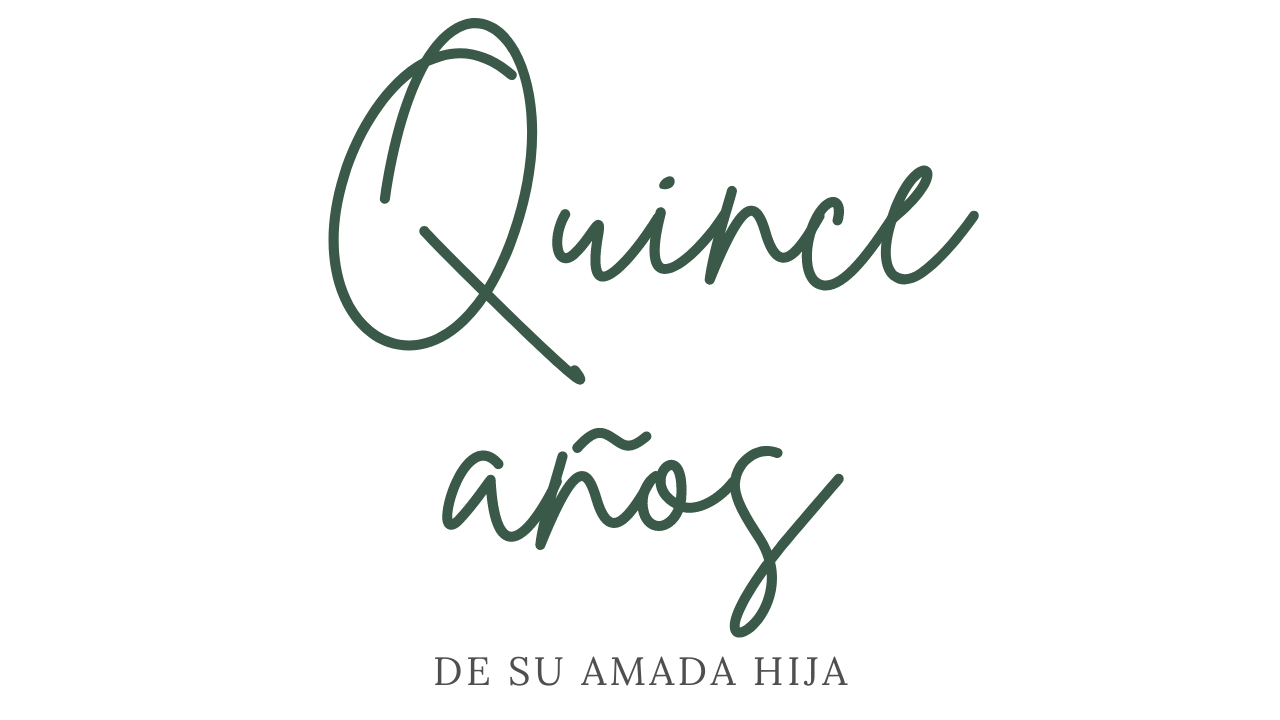
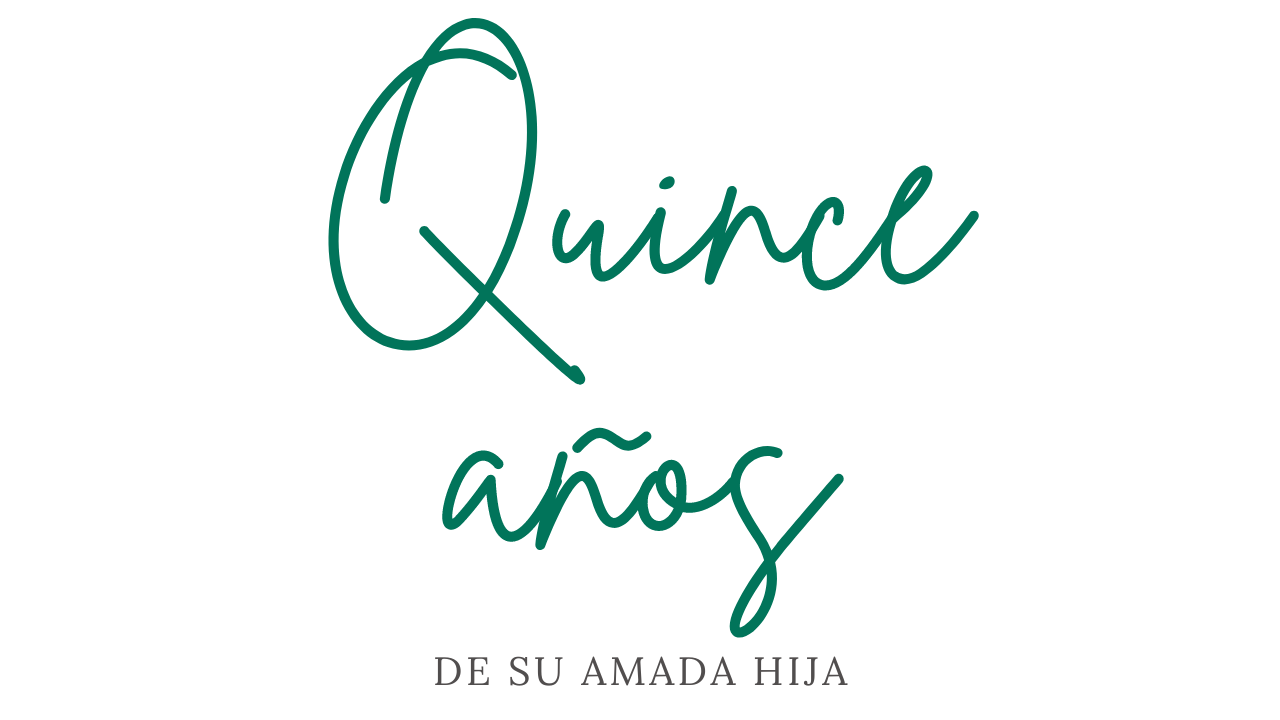
Add files via upload

diff --git a/nicepage.css b/nicepage.css
@@ -5,7 +5,10 @@
 .u-locked-block {
   pointer-events: none!important;
 }
-/*! normalize.css v4.1.1 | MIT License | github.com/necolas/normalize.css */
+/*! normalize.css v4.1.1 | MIT License | github.com/necolas/normalize.css color
+
+.u-custom-color-26,
+*/
 html {
   font-family: sans-serif;
   -ms-text-size-adjust: 100%;
@@ -40396,14 +40399,14 @@ a.u-link.u-text-hover-grey-90:hover {
         .u-table-alt-custom-color-26 tr:nth-child(even)
         {
             color: #ffffff;
-            background-color: #3a5949;
+            background-color: #01745A;
         }
 
         .u-button-style.u-custom-color-26,
         .u-button-style.u-custom-color-26[class*="u-border-"]
         {
             color: #ffffff !important;
-            background-color: #3a5949 !important;
+            background-color: #01745A !important;
         }
 
         .u-button-style.u-custom-color-26:hover,
@@ -40444,11 +40447,11 @@ a.u-link.u-text-hover-grey-90:hover {
         input.u-field-input.u-field-input.u-active-custom-color-26:checked
         {
             color: #ffffff !important;
-            background-color: #3a5949 !important;
+            background-color: #01745A !important;
         }
 
         a.u-link.u-hover-custom-color-26:hover {
-            color: #3a5949 !important;
+            color: #01745A !important;
         }
 
         
@@ -40671,14 +40674,14 @@ a.u-link.u-text-hover-grey-90:hover {
         .u-border-custom-color-26,
         .u-separator-custom-color-26:after
         {
-            border-color: #3a5949;
-            stroke: #3a5949;
+            border-color: #01745A;
+            stroke: #01745A;
         }
 
         .u-button-style.u-border-custom-color-26
         {
-            border-color: #3a5949 !important;
-            color: #3a5949 !important;
+            border-color: #01745A !important;
+            color: #01745A !important;
             background-color: transparent !important;
         }
 
@@ -40702,13 +40705,13 @@ a.u-link.u-text-hover-grey-90:hover {
         li.active > a.u-button-style.u-button-style.u-border-active-custom-color-26,
         input.u-field-input.u-field-input.u-border-active-custom-color-26:checked
         {
-            color: #3a5949 !important;
-            border-color: #3a5949 !important;
+            color: #01745A !important;
+            border-color: #01745A !important;
         }
 
         .u-link.u-border-custom-color-26[class*="u-border-"]
         {
-            border-color: #3a5949 !important;
+            border-color: #01745A !important;
         }
 
         .u-link.u-border-custom-color-26[class*="u-border-"]:hover
@@ -40977,7 +40980,7 @@ a.u-link.u-text-hover-grey-90:hover {
         a.u-button-style.u-text-custom-color-26,
         a.u-button-style.u-text-custom-color-26[class*="u-border-"]
         {
-            color: #3a5949 !important;
+            color: #01745A !important;
         }
 
         a.u-button-style.u-text-custom-color-26:hover,
@@ -41016,7 +41019,7 @@ a.u-link.u-text-hover-grey-90:hover {
         .u-popupmenu-items.u-text-hover-custom-color-26 .u-nav-link:hover,
         .u-popupmenu-items.u-popupmenu-items.u-text-active-custom-color-26 .u-nav-link.active
         {
-            color: #3a5949 !important;
+            color: #01745A !important;
         }
 
         .u-text-custom-color-26 .u-svg-link,
@@ -41025,7 +41028,7 @@ a.u-link.u-text-hover-grey-90:hover {
         .u-button-style.u-button-style.active > .u-text-active-custom-color-26 .u-svg-link,
         .u-text-hover-custom-color-26:focus .u-svg-link
         {
-            fill: #3a5949;
+            fill: #01745A;
         }
 
         .u-link.u-text-custom-color-26:hover
@@ -41035,7 +41038,7 @@ a.u-link.u-text-hover-grey-90:hover {
 
         a.u-link.u-text-hover-custom-color-26:hover
         {
-            color: #3a5949 !important;
+            color: #01745A !important;
         }
         
         

diff --git a/audio.css b/audio.css
@@ -4,7 +4,7 @@
     height: 50px;
     bottom: 130px;
     right: 00px;
-    background-color: #3A5949;
+    background-color: #01745A;
     color: #FFF;
     border-radius: 50px;
     text-align: center;

diff --git a/Invitacion-Muestra.css b/Invitacion-Muestra.css
@@ -2,6 +2,7 @@
   background-image: url("images/1.png");
   background-position: 50% 50%;
 }
+/* color */
 
 .u-section-1 .u-sheet-1 {
   min-height: 703px;
